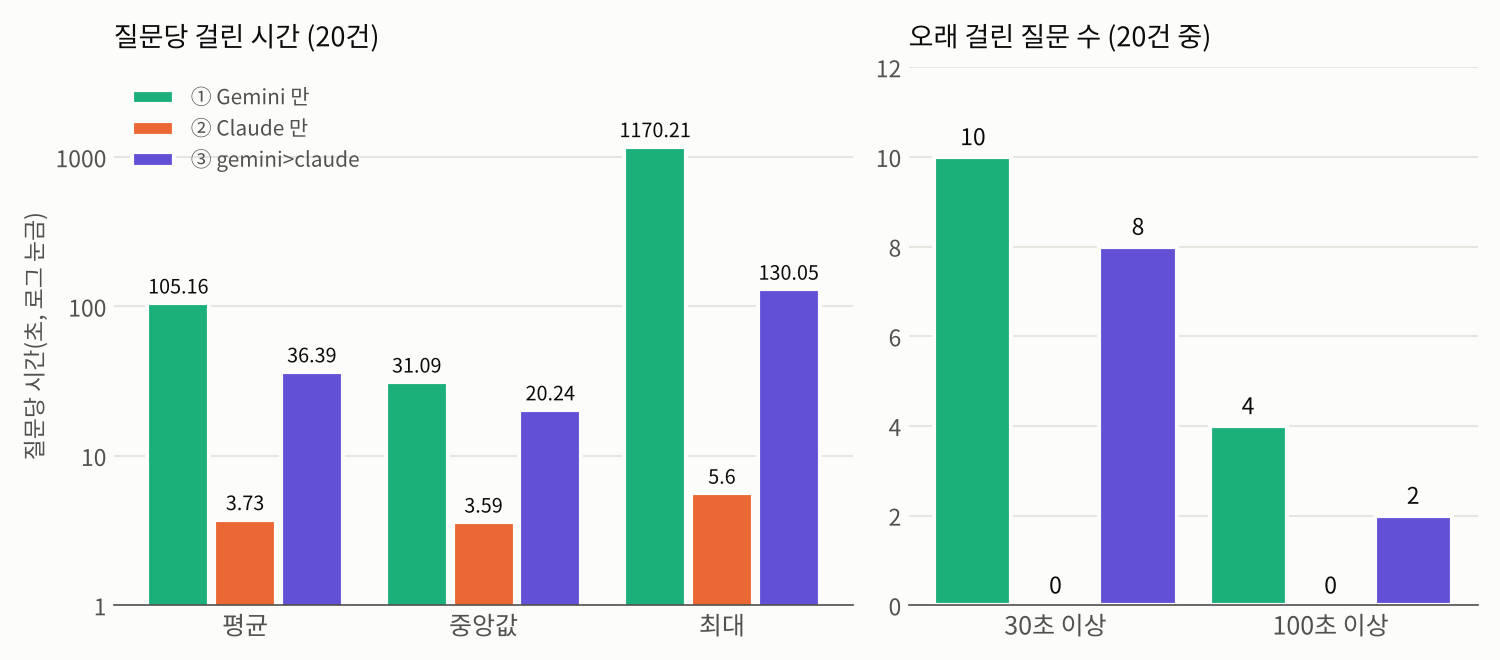
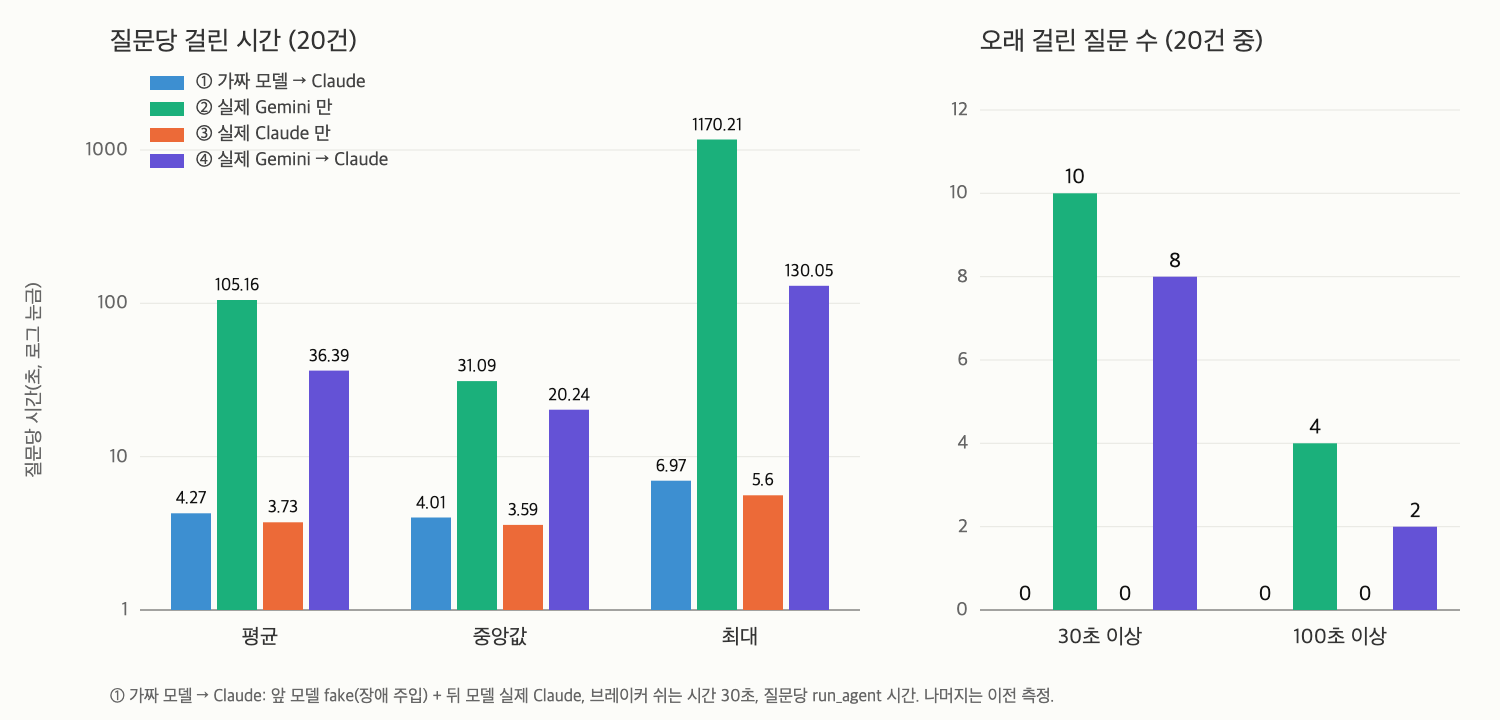
Day36 - re-measure model fallback with a real Claude back model (fake>claude)

diff --git a/d2-ai-python/app/checks/model_fallback_check.py b/d2-ai-python/app/checks/model_fallback_check.py
@@ -5,6 +5,8 @@
   python -m app.checks.model_fallback_check --real     실제 모델. ① Gemini 만 ② Claude 만 ③ 폴백(gemini>claude)
   python -m app.checks.model_fallback_check --real --n 20  질문 수를 바꾼다(기본 3, 질문 5개를 돌려 쓴다)
   python -m app.checks.model_fallback_check --real --only gemini    ① Gemini 만 (claude 는 ② Claude 만, fallback 은 ③ 폴백만)
+  python -m app.checks.model_fallback_check --fake-claude --dry     앞 모델 fake(장애 주입), 뒤 모델 가짜 fake-b. Claude 호출 0번(흐름 확인)
+  python -m app.checks.model_fallback_check --fake-claude           앞 모델 fake(장애 주입), 뒤 모델 실제 Claude. 호출 약 32번, 코드 상한 40번
 
 --real 은 Gemini 와 Claude 를 실제로 부른다(질문 1건당 모델 약 2번 + 검색 임베딩). GOOGLE_API_KEY, ANTHROPIC_API_KEY,
 Qdrant 가 필요하다. 가짜 장애는 쓰지 않는다. Gemini 무료 한도에 걸려 실제로 실패하면 ③ 이 Claude 로 넘어간다.
@@ -103,6 +105,117 @@ def run_fake() -> None:
         rec("F 모르는 모델 이름은 거절", True, str(e)[:40])
 
 
+# [NEW] 뒤 모델을 실제 Claude 로 둔 폴백 시험(fake>claude). 사용자가 허락한 Claude 호출 상한(40번)을 코드로도 막는다
+CLAUDE_CALL_LIMIT = 40
+
+
+class CountedBack:
+    """뒤 모델을 감싸 실제 호출 횟수와 시간을 기록한다. 상한에 닿으면 호출하지 않고 멈춘다."""
+    total = 0
+    seconds: list[float] = []
+
+    def __init__(self, inner):
+        self.inner = inner
+
+    def bind_tools(self, tools):
+        return CountedBack(self.inner.bind_tools(tools))
+
+    def invoke(self, messages):
+        if CountedBack.total >= CLAUDE_CALL_LIMIT:
+            raise RuntimeError(f"뒤 모델 호출 상한({CLAUDE_CALL_LIMIT}번)에 닿아 멈춘다")
+        CountedBack.total += 1
+        t0 = time.perf_counter()
+        try:
+            return self.inner.invoke(messages)
+        finally:
+            CountedBack.seconds.append(time.perf_counter() - t0)
+
+
+def run_fake_claude(dry: bool, cooldown: float = 1.0) -> None:
+    """앞 모델은 가짜(장애 주입), 뒤 모델은 실제 Claude. dry 이면 뒤 모델을 가짜(fake-b)로 바꿔 코드 흐름만 본다(Claude 0번).
+    cooldown 은 브레이커 쉬는 시간(초). 뒤 모델 응답(약 1초)보다 짧으면 도중에 다시 시도가 끼어든다(1차 측정에서 확인)."""
+    if not dry and not os.getenv("ANTHROPIC_API_KEY"):
+        print("ANTHROPIC_API_KEY 가 없다(.env 확인). fake>claude 시험을 건너뛴다")
+        return
+    os.environ["MODEL_FAULT_INJECTION"] = "true"
+    os.environ["MODEL_BREAKER_THRESHOLD"] = "3"
+    # [OLD] os.environ["MODEL_BREAKER_COOLDOWN_SEC"] = "1.0"
+    os.environ["MODEL_BREAKER_COOLDOWN_SEC"] = str(cooldown)  # [NEW] --cooldown 으로 바꾼다(기본 1.0)
+    os.environ["MODEL_DOWN_DELAY_SEC"] = "0.3"
+    os.environ["MODEL_FORCE_DOWN"] = ""
+    back = "fake-b" if dry else "claude"
+    print(f"\n== fake>claude: 앞 모델 fake(장애 주입), 뒤 모델 {'가짜 fake-b (dry, Claude 호출 0번)' if dry else '실제 Claude'}")
+    # [OLD] print("   브레이커 연속 3번 실패 → 1초 쉼, 장애 때 실패까지 0.3초. 호출 상한", CLAUDE_CALL_LIMIT, "번")
+    print(f"   브레이커 연속 3번 실패 → {cooldown:g}초 쉼, 장애 때 실패까지 0.3초. 호출 상한 {CLAUDE_CALL_LIMIT}번")  # [NEW]
+    CountedBack.total = 0
+    CountedBack.seconds = []
+
+    def chain():
+        # 이름은 장애 주입과 브레이커가 쓰는 키(fake, claude)다
+        return mf.FallbackChatModel(["fake", "claude"], [get_model("fake"), CountedBack(get_model(back))])
+
+    mf.reset()
+    call(chain(), 10)
+    s = mf.STATS
+    rec("A 정상: 앞 모델만 쓴다", s["served:fake"] == 10 and s["served:claude"] == 0 and s["error:fake"] == 0,
+        f"fake {s['served:fake']}회, claude {s['served:claude']}회, 실패 {s['error:fake']}회")
+
+    os.environ["MODEL_FORCE_DOWN"] = "fake"
+    mf.reset()
+    t_on = call(chain(), 10)
+    s = dict(mf.STATS)
+    rec("B 앞 모델 장애: 모두 뒤 모델이 답한다", s.get("served:claude", 0) == 10, f"claude {s.get('served:claude', 0)}/10")
+    rec("B 브레이커: 3번 실패 뒤에는 앞 모델을 건너뛴다",
+        s.get("error:fake") == 3 and s.get("skipped:fake") == 7 and mf.breaker_state("fake") == "open",
+        f"실패 {s.get('error:fake')}회, 건너뜀 {s.get('skipped:fake')}회, 상태 {mf.breaker_state('fake')}")
+    err_on = s.get("error:fake", 0)
+
+    os.environ["MODEL_BREAKER_THRESHOLD"] = "1000"
+    mf.reset()
+    t_off = call(chain(), 10)
+    err_off = mf.STATS["error:fake"]
+    os.environ["MODEL_BREAKER_THRESHOLD"] = "3"
+    rec("B 브레이커 효과: 없을 때보다 빠르다", t_on < t_off,
+        f"브레이커 있음 {t_on:.2f}초, 없음 {t_off:.2f}초 (10건, 뒤 모델 응답 시간 포함). "
+        f"앞 모델 실패 {err_on}회 대 {err_off}회(실패 대기 0.3초 x 횟수 = {err_on * 0.3:.1f}초 대 {err_off * 0.3:.1f}초)")
+
+    mf.reset()
+    call(chain(), 5)
+    time.sleep(mf.cooldown() + 0.1)
+    os.environ["MODEL_FORCE_DOWN"] = "fake"
+    before = mf.STATS["error:fake"]
+    call(chain(), 2)
+    rec("D 쉬는 시간 뒤 한 번만 다시 시도, 또 실패하면 다시 쉰다",
+        mf.STATS["error:fake"] - before == 1 and mf.breaker_state("fake") == "open",
+        f"다시 시도 {mf.STATS['error:fake'] - before}번, 상태 {mf.breaker_state('fake')}")
+
+    mf.reset()
+    call(chain(), 5)
+    time.sleep(mf.cooldown() + 0.1)
+    os.environ["MODEL_FORCE_DOWN"] = ""
+    call(chain(), 3)
+    rec("C 복구: 쉬는 시간 뒤 다시 시도해 성공하면 앞 모델로 돌아간다",
+        mf.STATS["served:fake"] == 3 and mf.breaker_state("fake") == "closed",
+        f"fake {mf.STATS['served:fake']}회, 상태 {mf.breaker_state('fake')}")
+
+    # 장애 주입은 모델을 부르기 전에 막으므로 이 단계는 Claude 를 부르지 않는다
+    os.environ["MODEL_FORCE_DOWN"] = "fake,claude"
+    mf.reset()
+    try:
+        call(chain(), 1)
+        rec("E 모두 장애: 예외를 낸다", False, "예외 없음")
+    except mf.ModelDownError as e:
+        rec("E 모두 장애: 마지막 모델의 예외를 낸다", True, str(e))
+    os.environ["MODEL_FORCE_DOWN"] = ""
+
+    sec = CountedBack.seconds
+    if sec:
+        print(f"\n== 뒤 모델 {'(가짜)' if dry else '(실제 Claude)'} 호출 {CountedBack.total}번, "
+              f"호출당 평균 {sum(sec) / len(sec):.2f}초, 최소 {min(sec):.2f}초, 최대 {max(sec):.2f}초")
+    else:
+        print("\n== 뒤 모델 호출 0번")
+
+
 QUESTIONS = [
     "환불은 며칠 안에 신청해야 하나요?",
     "교환은 어떻게 하나요?",
@@ -147,15 +260,88 @@ def run_real(n: int, only: str | None = None) -> None:
         rec(label + (" (참고, 판정 안 함)" if informational else ""), True if informational else ok == n, detail)
 
 
+# [NEW] 앞 모델 fake(장애 주입) + 뒤 모델 실제 Claude 를 run_agent 전체로 n건 돌려 질문당 시간을 잰다.
+# 실제 단계 ①②③ 과 같은 질문, 같은 방식(질문당 run_agent 시간)이라 나란히 비교할 수 있다.
+# dry 이면 뒤 모델을 fake-b(가짜)로 바꿔 실제 모델을 부르지 않는다. claude_limit 은 뒤 모델 호출 상한이다.
+def run_fake_claude_graph(n: int, dry: bool, claude_limit: int, cooldown: float = 30.0) -> None:
+    if not dry and not os.getenv("ANTHROPIC_API_KEY"):
+        print("ANTHROPIC_API_KEY 가 없다(.env 확인). 건너뛴다")
+        return
+    os.environ["MODEL_FAULT_INJECTION"] = "true"
+    os.environ["MODEL_FORCE_DOWN"] = "fake"
+    os.environ["MODEL_DOWN_DELAY_SEC"] = "0.3"
+    os.environ["MODEL_BREAKER_THRESHOLD"] = "3"
+    os.environ["MODEL_BREAKER_COOLDOWN_SEC"] = f"{cooldown:g}"
+    back = "fake-b" if dry else "claude"
+    provider = f"fake>{back}"
+    print(f"\n== fake>claude 질문 {n}건 (뒤 모델 {'가짜(dry)' if dry else '실제 Claude'}, 쉬는 시간 {cooldown:g}초, 뒤 모델 호출 상한 {claude_limit}번)")
+    mf.reset()
+    times, ok, errs = [], 0, []
+    for i in range(n):
+        served = sum(v for k, v in mf.STATS.items() if k.startswith("served:") and not k.endswith(":fake"))
+        if served >= claude_limit:
+            errs.append(f"뒤 모델 호출 상한({claude_limit}번)에 닿아 {i}건에서 멈춤")
+            break
+        q = QUESTIONS[i % len(QUESTIONS)]
+        t0 = time.perf_counter()
+        try:
+            ans = run_agent(q, provider)
+            # [OLD] if str(ans).strip(): ok += 1 / else: errs.append("빈 답")
+            # [NEW] 도구가 실패해 그래프가 포기한 답(give_up 문구)은 성공으로 세지 않는다
+            if not str(ans).strip():
+                errs.append("빈 답")
+            elif "요청을 처리하지 못했습니다" in str(ans):
+                errs.append(f"{i + 1}번째 질문이 포기 문구로 끝남(도구 실패)")
+            else:
+                ok += 1
+        except Exception as e:
+            errs.append(f"{type(e).__name__}: {str(e)[:60]}")
+        times.append(time.perf_counter() - t0)
+    if times:
+        s = sorted(times)
+        mid = (s[len(s) // 2] + s[(len(s) - 1) // 2]) / 2
+        detail = (f"성공 {ok}/{len(times)}, 질문당 평균 {sum(times) / len(times):.2f}초, 중앙값 {mid:.2f}초, 최대 {max(times):.2f}초, "
+                  f"30초 이상 {sum(t >= 30 for t in times)}건, 100초 이상 {sum(t >= 100 for t in times)}건, 모델 호출 기록 {dict(mf.STATS)}")
+        if errs:
+            detail += f", 메모 {errs[:3]}"
+        rec(f"fake>claude {len(times)}건", ok == len(times) and len(times) == n, detail)
+        print("   질문별 시간(초):", ", ".join(f"{t:.2f}" for t in times))
+    else:
+        rec("fake>claude", False, f"실행된 질문 없음 {errs[:3]}")
+
+
 def main() -> None:
     ap = argparse.ArgumentParser()
     ap.add_argument("--real", action="store_true")
     ap.add_argument("--n", type=int, default=3)
     # --real 에서 한 단계만 돌린다. 없으면 ①②③ 모두
     ap.add_argument("--only", choices=["gemini", "claude", "fallback"], help="--real 에서 이 단계만 실행")
+    # [NEW] 앞 모델은 가짜(장애 주입), 뒤 모델은 실제 Claude. --dry 는 뒤 모델을 가짜로 바꿔 Claude 를 부르지 않고 흐름만 본다
+    ap.add_argument("--fake-claude", action="store_true")
+    ap.add_argument("--dry", action="store_true")
+    ap.add_argument("--cooldown", type=float, default=1.0, help="--fake-claude 의 브레이커 쉬는 시간(초). 기본 1.0")
+    # [NEW] 앞 모델 fake + 뒤 모델 실제 Claude 를 run_agent 전체로 --n 건 돌린다(--claude-limit 은 뒤 모델 호출 상한)
+    ap.add_argument("--fake-claude-graph", action="store_true")
+    ap.add_argument("--claude-limit", type=int, default=50)
     args = ap.parse_args()
     print("== Day 36 모델 폴백 + 서킷 브레이커 점검")
-    if args.real:
+    if args.fake_claude_graph:
+        run_fake_claude_graph(max(1, args.n), args.dry, args.claude_limit, args.cooldown if args.cooldown != 1.0 else 30.0)
+        fails = [r for r in rows if not r[1]]
+        print(f"\n== 요약: PASS {len(rows) - len(fails)}, FAIL {len(fails)}")
+        print("== 결과:", "PASS" if not fails else "FAIL")
+        sys.exit(1 if fails else 0)
+    # [OLD] if args.real:
+    # [OLD]     run_real(max(1, args.n), args.only)
+    # [OLD] else:
+    # [OLD]     run_fake()
+    # [NEW] --fake-claude 를 먼저 본다. 나머지는 이전과 같다
+    if args.fake_claude:
+        try:
+            run_fake_claude(args.dry, args.cooldown)
+        except Exception as e:  # 중간에 멈춰도 쓴 호출 횟수는 남긴다
+            rec("fake>claude 시험이 중간에 멈춤", False, f"{type(e).__name__}: {str(e)[:80]}, 뒤 모델 호출 {CountedBack.total}번")
+    elif args.real:
         run_real(max(1, args.n), args.only)
     else:
         run_fake()

diff --git a/docs/DAY36_RESULT.md b/docs/DAY36_RESULT.md
@@ -1,6 +1,6 @@
 # Day 36 결과 — 모델 폴백(서킷 브레이커)
 
-> 상태: **가짜 모델 점검 PASS 8, FAIL 0. 실제 모델(`--real --n 20`) PASS 3, FAIL 0이지만 Gemini 가 한 번도 실패하지 않아 폴백은 일어나지 않았다**(2026-10-21).
+> 상태: **앞 모델 가짜(장애 주입) + 뒤 모델 실제 Claude 점검 PASS 7, FAIL 0(브레이커 쉬는 시간 30초, 2026-10-29). 쉬는 시간 1초로 한 1차 측정은 2개가 FAIL 이었고 원인은 쉬는 시간이 Claude 응답 시간보다 짧았던 것이다. 실제 모델(`--real --n 20`) PASS 3, FAIL 0이지만 Gemini 가 한 번도 실패하지 않아 폴백은 일어나지 않았다**(2026-10-21).
 > 가이드는 [DAY36_GUIDE.md](DAY36_GUIDE.md), 코드 흐름은 [DAY36_CODE_GUIDE.md](DAY36_CODE_GUIDE.md).
 
 **전체 목적:** 앞 모델이 실패하면 다음 모델로 넘어가고(폴백), 앞 모델이 연속으로 실패하면 일정 시간 부르지 않아(서킷 브레이커) 장애인 모델을 기다리느라 모든 요청이 느려지는 일을 막는다.
@@ -9,31 +9,46 @@
 
 | 항목      | 값                                                                                               |
 | --------- | ------------------------------------------------------------------------------------------------ |
-| 실행      | 가짜 모델: `python -m app.checks.model_fallback_check`, 실제 모델: `python -m app.checks.model_fallback_check --real --n 20` (서버, Kafka, Redis 없이 한 프로세스 안에서) |
-| 모델      | 가짜 모델: 두 개를 이은 `fake>fake-b` (가짜 지연 0초). 실제 모델: Gemini(`gemini-3.1-flash-lite`), Claude(`claude-haiku-5-5`)      |
-| 브레이커  | 연속 3번 실패하면 1초 쉼                                                                         |
-| 장애 주입 | 앞 모델(`fake`)을 부르기 전에 0.3초 기다린 뒤 실패시킴                                           |
+| 실행      | 앞 모델 가짜 + 뒤 모델 실제 Claude: `python -m app.checks.model_fallback_check --fake-claude --cooldown 30`, 실제 모델: `python -m app.checks.model_fallback_check --real --n 20` (서버, Kafka, Redis 없이 한 프로세스 안에서) |
+| 모델      | `fake>claude`: 앞 모델 `fake`(가짜 지연 0초, 장애 주입), 뒤 모델 Claude(`claude-haiku-5-5`, 질문은 "q" 한 줄). 실제 모델 단계: Gemini(`gemini-3.1-flash-lite`), Claude(`claude-haiku-5-5`) |
+| 브레이커  | 연속 3번 실패하면 쉼. 쉬는 시간은 `fake>claude` 1차 1초, 2차 30초(코드 기본값) |
+| 장애 주입 | 앞 모델(`fake`)을 부르기 전에 0.3초 기다린 뒤 실패시킴. 점검 한 번에 뒤 모델(Claude)을 32번 부른다(코드 상한 40번) |
 | 실제 모델 부하 | 단계마다 질문 20건(5개를 4번씩), 한 건씩 차례로. ① Gemini 만, ② Claude 만, ③ `gemini>claude`. 가짜 장애는 쓰지 않음 |
 | 그 밖에   | ③ 이 도는 동안 같은 키로 Gemini 질문 3건이 별도로 호출됐다(`--only` 동작 확인 중 실수) |
-| 측정 횟수 | 각 항목 한 번                                                                                    |
+| 측정 횟수 | `fake>claude` 는 쉬는 시간을 바꿔 2번(각각 Claude 32번, 합계 64번). 나머지 항목은 각 한 번 |
 
 ## 2. 결과
 
-![가짜 모델 점검 결과](images/day36/fake-check.png)
+### 2-1. 앞 모델 가짜 + 뒤 모델 실제 Claude (`fake>claude`, 쉬는 시간 30초)
+
+![fake>claude 점검 결과](images/day36/fake-claude-check.png)
 
 | 항목 | 내용                                              | 결과                                                    |
 | ---- | ------------------------------------------------- | ------------------------------------------------------- |
-| A    | 정상이면 앞 모델만 쓴다                           | PASS. fake 10회, fake-b 0회, 실패 0회                   |
-| B    | 앞 모델이 장애이면 뒤 모델이 답한다               | PASS. fake-b 10/10                                      |
+| A    | 정상이면 앞 모델만 쓴다                           | PASS. fake 10회, claude 0회, 실패 0회                   |
+| B    | 앞 모델이 장애이면 뒤 모델이 답한다               | PASS. claude 10/10                                      |
 | B    | 3번 실패 뒤에는 앞 모델을 건너뛴다                | PASS. 실패 3회, 건너뜀 7회, 상태 open                   |
-| B    | 브레이커가 있으면 없을 때보다 빠르다 (10건)       | PASS. 있음 0.91초, 없음 3.04초                          |
+| B    | 브레이커가 있으면 없을 때보다 빠르다 (10건)       | PASS. 있음 11.06초, 없음 13.75초(뒤 모델 응답 시간 포함). 앞 모델 실패 3회 대 10회 |
 | D    | 쉬는 시간 뒤 한 번만 다시 시도, 또 실패하면 다시 쉼 | PASS. 다시 시도 1번, 상태 open                          |
 | C    | 쉬는 시간 뒤 다시 시도해 성공하면 앞 모델로 복귀  | PASS. fake 3회, 상태 closed                             |
-| E    | 모든 모델이 장애이면 예외를 낸다                  | PASS. `fake-b 장애(주입)`                               |
-| F    | 모르는 모델 이름은 거절                           | PASS. `지원하지 않는 provider입니다: 없는모델`          |
+| E    | 모든 모델이 장애이면 예외를 낸다                  | PASS. `claude 장애(주입)`                               |
+
+뒤 모델(실제 Claude) 호출은 32번이었고 호출당 평균 1.05초(최소 0.84초, 최대 1.70초)였다.
+
+![브레이커 없음과 있음 비교](images/day36/fake-claude-chart.png)
+
+### 2-2. 같은 시험을 쉬는 시간 1초로 한 1차 측정
+
+| 항목                                  | 쉬는 시간 1초 (1차)           | 쉬는 시간 30초 (2차)          |
+| ------------------------------------- | ----------------------------- | ----------------------------- |
+| B 3번 실패 뒤 건너뜀                  | FAIL. 실패 8회, 건너뜀 2회    | PASS. 실패 3회, 건너뜀 7회    |
+| B 브레이커 효과 (10건 처리 시간)      | 있음 13.79초, 없음 14.41초    | 있음 11.06초, 없음 13.75초    |
+| D 쉬는 시간 뒤 한 번만 다시 시도      | FAIL. 다시 시도 2번           | PASS. 다시 시도 1번           |
+| A, B(뒤 모델 10/10), C, E             | PASS                          | PASS                          |
+| 뒤 모델 호출당 시간                   | 평균 1.11초, 최대 1.70초      | 평균 1.05초, 최대 1.70초      |
 
 
-### 2-2. 실제 모델 (Gemini, Claude)
+### 2-3. 실제 모델 (Gemini, Claude)
 
 ① Gemini 만 (참고, 판정 안 함)
 
@@ -57,10 +72,11 @@
 
 ## 3. 해석
 
-- 앞 모델이 장애여도 요청은 실패하지 않고 뒤 모델이 모두 답했다(10/10).
-- 브레이커가 없으면 10건 모두 앞 모델의 실패를 기다려 3.04초(0.3초 × 10)가 걸렸고, 있으면 처음 3건만 기다려 0.91초(0.3초 × 3)였다. 장애가 길수록, 실패까지 오래 걸릴수록 차이가 커진다. 실제 모델에서 실패까지의 시간은 이번에 재지 않았다.
+- 앞 모델이 장애여도 요청은 실패하지 않고 뒤 모델(실제 Claude)이 모두 답했다(10/10).
+- 브레이커가 없으면 10건 모두 앞 모델의 실패를 기다려(0.3초 × 10 = 3.0초, 계산값) 13.75초가 걸렸고, 있으면 처음 3건만 기다려(0.3초 × 3 = 0.9초) 11.06초가 걸렸다. 총 시간에는 뒤 모델의 응답 시간(호출당 약 1초)이 섞여 있어 차이가 실패 대기 시간 차이(2.1초)와 정확히 같지 않고, 호출마다 응답이 달라 1차에서는 차이가 0.62초로 작았다. 총 시간보다 앞 모델이 실패한 횟수(3회 대 10회)가 흔들리지 않는 비교 값이다.
 - 브레이커는 쉬는 시간이 지나면 한 번만 시험 호출을 보내고, 성공하면 앞 모델로 돌아가고 실패하면 다시 쉬었다.
-- 위 세 항목은 가짜 모델과 장애 주입으로 얻은 것이다.
+- **쉬는 시간은 뒤 모델의 응답 시간보다 길어야 한다.** 1차(쉬는 시간 1초)에서는 Claude 한 번이 약 1.1초 걸려 10건이 처리되는 도중에 쉬는 시간이 끝났고, 그때마다 앞 모델을 다시 시도해 실패가 3회가 아니라 8회가 됐다(건너뜀 2회). 이전에 뒤 모델을 가짜로 둔 점검에서는 10건이 0.9초에 끝나 이 문제가 드러나지 않았다. 쉬는 시간만 기본값 30초로 바꿔 같은 시험을 다시 하자 3회가 나왔다. 브레이커의 결함이 아니라 쉬는 시간과 호출 시간의 관계다.
+- 위 항목은 앞 모델을 장애 주입으로 일부러 실패시킨 시험이다. 실제 Gemini 가 실패하는 경우는 아래 실제 모델 단계에서 보려 했으나 일어나지 않았다.
 - **실제 모델에서는 폴백이 일어나지 않았다.** ③ 에서 Gemini 호출 40번이 모두 성공했고(`served:gemini` 40, `error`, `skipped` 없음) 20건 모두 Gemini 가 답했다. 무료 한도 오류도 나오지 않았다. 그래서 실제 Gemini 에서 Claude 로 넘어가는 동작은 실제 모델로는 확인하지 못했다.
 - **Gemini 는 실패하지 않았지만 느리고 들쭉날쭉했다.** 질문당 최대 1170.21초(모델 호출 한 번이 1166.50초)였고 100초가 넘은 질문이 ① 에서 4건, ③ 에서 2건이었다. 같은 Gemini 인데 ① 은 평균 105.16초, ③ 은 36.39초였고 중앙값은 31.09초와 20.24초였다. 평균 차이는 극단값 때문이다.
 - **느린 것은 실패가 아니라서 지금의 폴백은 막지 못한다.** ③ 에서 130.05초 걸린 질문도 Claude 로 넘어가지 않고 Gemini 를 끝까지 기다렸다. 폴백이 막는 것은 모델이 오류를 낼 때이고 지연은 아니다. 지연까지 막으려면 앞 모델 호출에 시간 제한을 두는 방법이 있으나 이번에는 만들지 않았다.

diff --git a/docs/DAY36_GUIDE.md b/docs/DAY36_GUIDE.md
@@ -3,7 +3,7 @@
 > 모델 한 곳이 실패하거나 느려져도 서비스가 멈추지 않게 하는 폴백(서킷 브레이커)을 만들고, 실제로 되는지 확인
 
 > 모델 한 곳이 실패하거나 느려져도 서비스가 멈추지 않게 하는 폴백(서킷 브레이커)을 만들고, 실제로 되는지 확인
-> **가짜 모델 점검 PASS 8, 실제 모델 3단계 PASS 3 (결과는 [DAY36_RESULT.md](DAY36_RESULT.md)).**
+> **앞 모델 가짜 + 뒤 모델 실제 Claude 점검 PASS 7, 실제 모델 3단계 PASS 3 (결과는 [DAY36_RESULT.md](DAY36_RESULT.md)).**
 > 코드 흐름은 [DAY36_CODE_GUIDE.md](DAY36_CODE_GUIDE.md). 앞선 결과: [DAY35_RESULT.md](DAY35_RESULT.md).
 > 이 날도 **가짜 모델과 실제 모델을 둘 다 쓴다**. 가짜 모델은 폴백과 브레이커 동작을 정확히 확인하고, 실제 모델은 Gemini, Claude 가 실제로 이어지는지 소량으로 본다.
 
@@ -21,12 +21,14 @@
 | ① Gemini 만, ② Claude 만 각각 질문이 성공한다 (기준선)                                                            | 실제 |
 | ③ 폴백 `gemini>claude` 에서 Gemini(실제 호출)가 무료 한도 등으로 실제로 실패하면 질문은 성공하고 Claude 가 답한다 | 실제 |
 
+> 위 "가짜" 점검 중 B, D, C, E 는 `fake>claude`(뒤 모델이 실제 Claude)로도 돈다(4절 ①-2). 뒤 모델까지 가짜인 `fake>fake-b` 점검은 코드에 남아 있어 무료로 다시 돌릴 수 있다.
+
 ## 2. 바뀐 것
 
 | 파일                                                          | 내용                                                                                                   |
 | ------------------------------------------------------------- | ------------------------------------------------------------------------------------------------------ |
 | `d2-ai-python/app/services/model_fallback.py` (새 파일)       | `FallbackChatModel`(앞 모델 실패 시 다음 모델), 서킷 브레이커, 장애 주입, 통계                         |
-| `d2-ai-python/app/checks/model_fallback_check.py` (새 파일) | 가짜 모델 점검(PASS/FAIL)과 `--real` 실제 모델 ①②③ 실행(`--only` 로 한 단계만 가능)                    |
+| `d2-ai-python/app/checks/model_fallback_check.py` (새 파일) | 가짜 모델 점검(PASS/FAIL), `--real` 실제 모델 ①②③ 실행(`--only` 로 한 단계만 가능), `--fake-claude` 앞 모델 가짜 + 뒤 모델 실제 Claude(`--dry`, `--cooldown`) |
 | `agent_graph.py` 의 `get_model`                               | provider 에 `>` 가 있으면 폴백 모델을 만든다. `fake-b`(가짜 두 번째 모델) 추가. `>` 없으면 이전과 같다 |
 | `fake_llm.py`                                                 | `FakeChatModel` 이 이름표를 받는다(기본 `fake`, 답은 이전과 같다)                                      |
 | `metrics.py`                                                  | `agent_model_fallbacks_total{from_model,reason}`, `agent_model_served_total{model}` 추가               |
@@ -55,6 +57,19 @@
     python -m app.checks.model_fallback_check
 
 PASS 8, 결과 PASS 면 통과. 몇 초 걸린다(장애 주입 지연 0.3초 × 몇 번).
+
+### ①-2. 앞 모델 가짜 + 뒤 모델 실제 Claude (Claude 를 부른다)
+
+    python -m app.checks.model_fallback_check --fake-claude --dry
+    python -m app.checks.model_fallback_check --fake-claude --cooldown 30
+
+`--dry` 는 뒤 모델을 가짜로 바꿔 Claude 를 부르지 않고 흐름만 본다(Claude 0번). 두 번째는 실제 Claude 를 약 32번 부르고, 코드가 40번에서 멈춘다. `ANTHROPIC_API_KEY` 가 필요하다(검색 도구는 쓰지 않는다).
+
+**기대**
+
+- PASS 7, 결과 PASS. 약 2분(D, C 단계가 쉬는 시간 30초씩 기다린다).
+- B: 뒤 모델 claude 10/10, 앞 모델 실패 3회·건너뜀 7회. 브레이커 있음이 없음보다 빠르다.
+- `--cooldown` 을 안 붙이면 쉬는 시간이 1초라서, Claude 한 번(약 1초)보다 짧아 도중에 다시 시도가 끼어 앞 모델 실패가 3회보다 늘고 FAIL 이 나올 수 있다. 쉬는 시간은 호출 시간보다 길게 둔다.
 
 ### ② 실제 모델 (Gemini, Claude 를 실제로 부른다)
 
@@ -97,6 +112,7 @@ Gemini 무료 한도는 작아서 걸릴 수 있다. 한도에 걸려 Gemini 가
 ## 6. 체크리스트
 
 - [ ] ① 가짜 모델 PASS 8
+- [ ] ①-2 앞 모델 가짜 + 뒤 모델 Claude PASS 7(`--cooldown 30`)
 - [ ] 실제 모델 ① Gemini 만 (참고)
 - [ ] 실제 모델 ② Claude 만 성공
 - [ ] 실제 모델 ③ 폴백 성공(Gemini 가 실패한 경우 Claude 가 답함)

diff --git a/docs/DAY40_REPORT.md b/docs/DAY40_REPORT.md
@@ -29,7 +29,7 @@
 
 폴백이 하는 일과 못 하는 일은 Day 36 결과로 나뉜다([DAY36_RESULT.md](DAY36_RESULT.md)).
 
-- 가짜 모델에서 앞 모델을 장애로 만들면 10건이 모두 뒤 모델로 처리됐고, 3번 실패한 뒤에는 건너뛰어 10건이 0.91초에 끝났다(브레이커 없이 3.04초).
+- 앞 모델(가짜)을 항상 실패하게 만들고 뒤 모델을 실제 Claude 로 두었다. 10건 모두 뒤 모델이 답했다. 브레이커가 있으면 앞 모델이 3번 실패한 뒤 4번째 건부터 앞 모델을 건너뛰어 실패가 3회였고, 없으면 10건 모두 앞 모델을 먼저 불러 10회였다. 10건 처리 시간은 11.06초 대 13.75초로, Claude 응답 시간(호출당 약 1초)이 섞여 차이가 작다. 쉬는 시간을 Claude 응답보다 짧은 1초로 두면 쉬는 도중에 앞 모델을 다시 불러 실패가 8회로 늘어, 쉬는 시간은 호출 시간보다 길게 둬야 한다(30초에서는 3회).
 - 실제 모델에서는 Gemini 가 20건 모두 성공해 폴백이 일어나지 않았다. 대신 Gemini 는 질문당 평균 105.16초, 최대 1170.21초로 느렸고 Claude 는 평균 3.73초였다. 폴백은 오류만 보고 넘어가므로 이 지연은 막지 못한다. 막으려면 호출마다 제한 시간을 두어 시간 초과를 실패로 세어야 하는데, 이 프로젝트에서는 만들지 않았다.
 
 ### 6-2. 실험의 한계
@@ -42,6 +42,6 @@
 | Redis 락           | Redis 한 대에 거는 락이다. N=200 에서는 연결 풀(기본 100개)이 모자라 락 우회가 57번 났다(풀을 300 개로 늘리면 사라졌다, Day 33 ⑥). Redis 가 죽으면 `fail_open` 으로 락 없이 실행한다 | Redis 가 여러 대이거나 장애일 때의 동시 요청 보호                        |
 | Kafka              | 브로커 한 대, 소비자 설정(`max.poll.interval` 등)이 긴 처리에 주는 영향은 보지 않았다                                                                                                | 브로커 장애 시 재처리, 매우 긴 처리 중의 리밸런싱                        |
 | 벡터 검색          | HNSW 설정은 합성 벡터 10만 개로 쟀다. 이 프로젝트의 실제 컬렉션은 문서 4개(청크 15~18개)라 설정이 결과를 바꾸지 못한다                                                                | 실제 문서 규모에서의 검색 설정 효과                                      |
-| 모델 폴백          | 넘어가는 동작은 가짜 모델에서만 확인했다. 실제 모델에서는 Gemini 가 실패하지 않았다. 느린 응답은 폴백이 못 막는다                                                                     | 실제 장애(429, 5xx, 연결 실패) 때의 전환 시간, 지연 상황에서의 보호      |
+| 모델 폴백          | 넘어가는 동작은 앞 모델을 장애 주입으로 실패시킨 시험(뒤 모델은 실제 Claude)에서만 확인했다. 실제 모델에서는 Gemini 가 실패하지 않았다. 느린 응답은 폴백이 못 막는다                                                                     | 실제 장애(429, 5xx, 연결 실패) 때의 전환 시간, 지연 상황에서의 보호      |
 
 이 한계는 결과의 방향(구조가 한계를 어떻게 바꾸는가)을 흔들지는 않지만, 수치를 다른 환경에 그대로 가져가면 안 된다는 뜻이다.

diff --git a/docs/DAY36_CODE_GUIDE.md b/docs/DAY36_CODE_GUIDE.md
@@ -30,6 +30,7 @@
 ## 3. model_fallback_check.py
 
 - 기본(가짜): `fake>fake-b` 로 A 정상, B 앞 모델 장애(+브레이커 효과 비교: 기준을 1000 으로 올려 브레이커를 사실상 끈 실행과 시간 비교), D 쉬는 시간 뒤 재시도 실패, C 복구, E 모두 장애, F 모르는 모델 이름. 모델 호출을 직접 하므로 서버가 필요 없고, 가짜 모델 지연은 0 으로 둔다.
+- `--fake-claude`: 앞 모델 `fake`(장애 주입), 뒤 모델 `claude`. `CountedBack` 이 뒤 모델 호출 횟수와 시간을 기록하고 상한(`CLAUDE_CALL_LIMIT` 40번)에 닿으면 멈춘다. `--dry` 는 뒤 모델을 `fake-b` 로 바꿔 Claude 를 부르지 않는다. `--cooldown` 으로 브레이커 쉬는 시간을 바꾼다(기본 1.0, 실제 Claude 에는 30). F(모르는 모델 이름)는 `fake>fake-b` 점검과 같아 빠졌다.
 - `--real`: `--only gemini|claude|fallback` 으로 한 단계만 돌릴 수 있고(`run_real` 의 `stages` 에서 고른 키가 아닌 단계는 건너뛴다), 없으면 세 단계가 모두 돈다. `run_agent` 를 질문마다 직접 부른다(Redis 대화 저장 없음). ① `gemini`(참고, 판정 안 함) ② `claude` ③ `gemini>claude`. 가짜 장애 없이 실제로 부른다. 질문은 5개를 돌려 쓰며(`QUESTIONS[i % 5]`) `--n`(한 단계에서 보낼 질문 수, 기본 3)으로 건수를 정한다. 질문은 한 건씩 차례로 보낸다. 성공 수, 평균·최대 시간, ③ 은 호출 기록(`STATS`)을 출력한다.
 - 종료 코드: FAIL 이 하나라도 있으면 1, 아니면 0.
 
